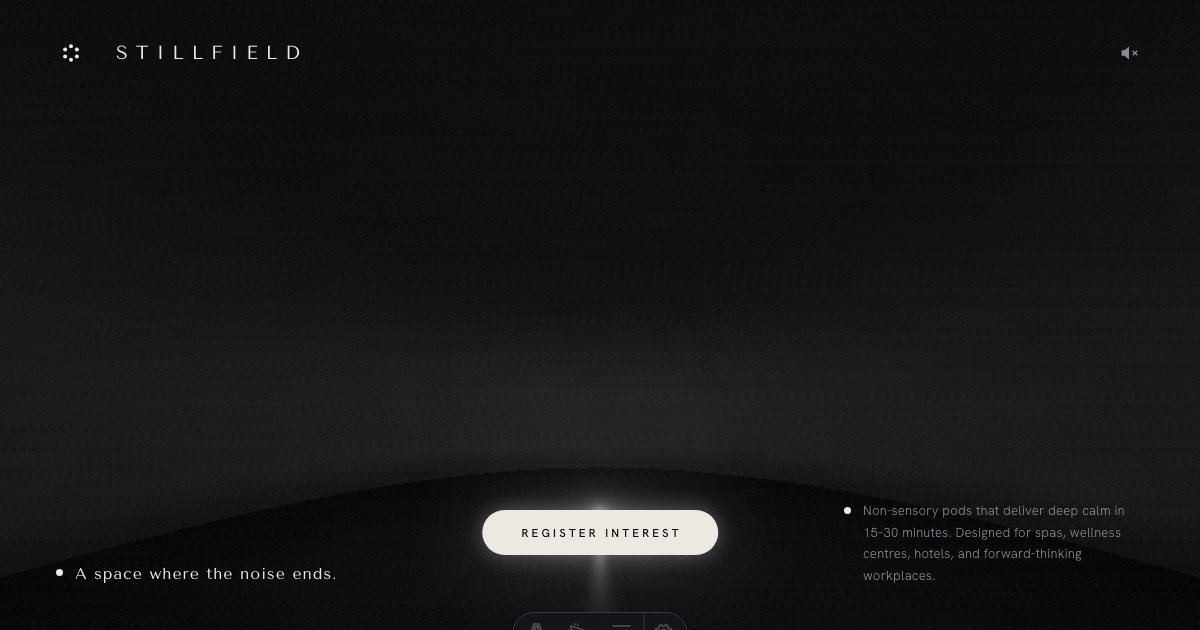
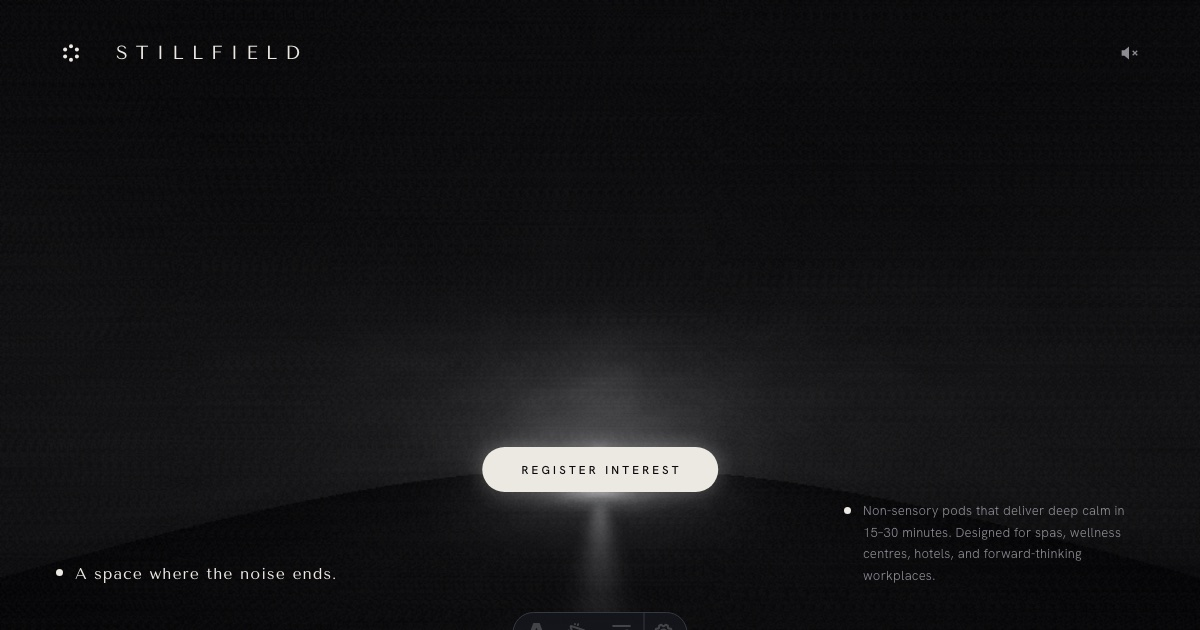
feat: seat the pill on the horizon, restore texture, hide the lamp core
Move the lamp to the far floor so the pill sits on the floor/wall seam
like a rising sun — glow fans up the wall directly behind it and the
reflection runs down toward the viewer, removing the dark band that
made the light look like it rose from behind a hill. Raise the lamp so
its bright core projects onto the pill body and never peeks out below
it. Bring back a two-scale plaster/stone texture (medium mottle + fine
tooth) on wall and floor, soften the seam occlusion so the light stays
continuous across it.

Changed region(s): [[0.37, 0.6032, 0.6167, 0.9048]]

diff --git a/src/components/Dome.tsx b/src/components/Dome.tsx
@@ -19,8 +19,11 @@ uniform float uTime;
 uniform float uGlow;   // lamp energy: boot ramp × pointer proximity, 0..1
 
 const float R  = 6.0;                     // dome radius
-const vec3  LP = vec3(0.0, 0.16, -1.5);   // the lamp: just above the floor,
-                                          // where the Register pill stands
+const vec3  LP = vec3(0.0, 0.62, -3.6);   // the lamp: hovering low over the
+                                          // far floor, projected dead-centre
+                                          // behind the pill on the horizon —
+                                          // its bright core must stay hidden
+                                          // by the button
 
 // ── noise ──────────────────────────────────────────
 float hash(vec2 p) {
@@ -61,33 +64,33 @@ void main() {
   // lamp energy: slow breathing on top of the proximity swell
   float E = uGlow * (1.0 + 0.05 * sin(uTime * 0.45));
 
-  // ── material: near-flat, fine-grained — lighting does the shape ──
+  // ── material: troweled plaster and honed stone — a medium mottle
+  // under a fine tooth, present but never smoky ──
   vec3 n = floorHit ? vec3(0.0, 1.0, 0.0) : -normalize(P);
   float az = atan(P.z, P.x);
   float tex = floorHit
-    ? fbm(P.xz * 2.6)
-    : fbm(vec2(az * 7.0, P.y * 2.4)) * 0.5 + fbm(P.xz * 4.0) * 0.5;
-  float albedo = floorHit ? 0.50 + 0.16 * tex : 0.78 + 0.22 * tex;
+    ? fbm(P.xz * 1.7) * 0.45 + fbm(P.xz * 6.5) * 0.55
+    : fbm(vec2(az * 3.2, P.y * 1.1)) * 0.45 + fbm(vec2(az * 9.0, P.y * 3.2)) * 0.55;
+  float albedo = floorHit ? 0.40 + 0.34 * tex : 0.62 + 0.38 * tex;
 
   vec3 toL = LP - P;
   float d2 = dot(toL, toL) + 0.03;
   float lam = max(dot(n, toL * inversesqrt(d2)), 0.0);
   // softer-than-physical falloff so the lamp's rake reaches the far wall
-  float K = floorHit ? 0.45 : 0.85;
+  float K = floorHit ? 0.55 : 0.80;
   float I = albedo * lam * E * K / pow(d2, 0.72);
 
   if (!floorHit) {
     // the crown stays night-black even when the lamp swells
     I *= mix(1.0, 0.25, smoothstep(1.6, 4.8, P.y));
-    // contact occlusion where the wall meets the floor
-    I *= 0.5 + 0.5 * smoothstep(0.0, 0.7, P.y);
+    // light contact occlusion where the wall meets the floor — kept thin
+    // so the glow stays continuous across the seam
+    I *= 0.78 + 0.22 * smoothstep(0.0, 0.45, P.y);
   } else {
-    // contact shadow ring before the wall seam
-    I *= mix(1.0, 0.45, smoothstep(R - 2.2, R - 0.3, length(P.xz)));
     // polished stone: the lamp reflects toward the viewer, the smear
     // widening and dying off with distance from the lamp
     vec3 h = normalize(toL * inversesqrt(d2) + normalize(ro - P));
-    I += E * 0.30 * pow(max(h.y, 0.0), 60.0) * exp(-length(P.xz - LP.xz) * 0.45);
+    I += E * 0.32 * pow(max(h.y, 0.0), 60.0) * exp(-length(P.xz - LP.xz) * 0.30);
   }
 
   // ambient spill: enough for the seam arc and the lower vault to emerge

diff --git a/src/styles/global.css b/src/styles/global.css
@@ -134,7 +134,7 @@ button { cursor: pointer; }
 .floor-cta {
   position: absolute;
   left: 50%;
-  top: 81%;
+  top: 71%;
   transform: translateX(-50%);
   z-index: 3;
 }